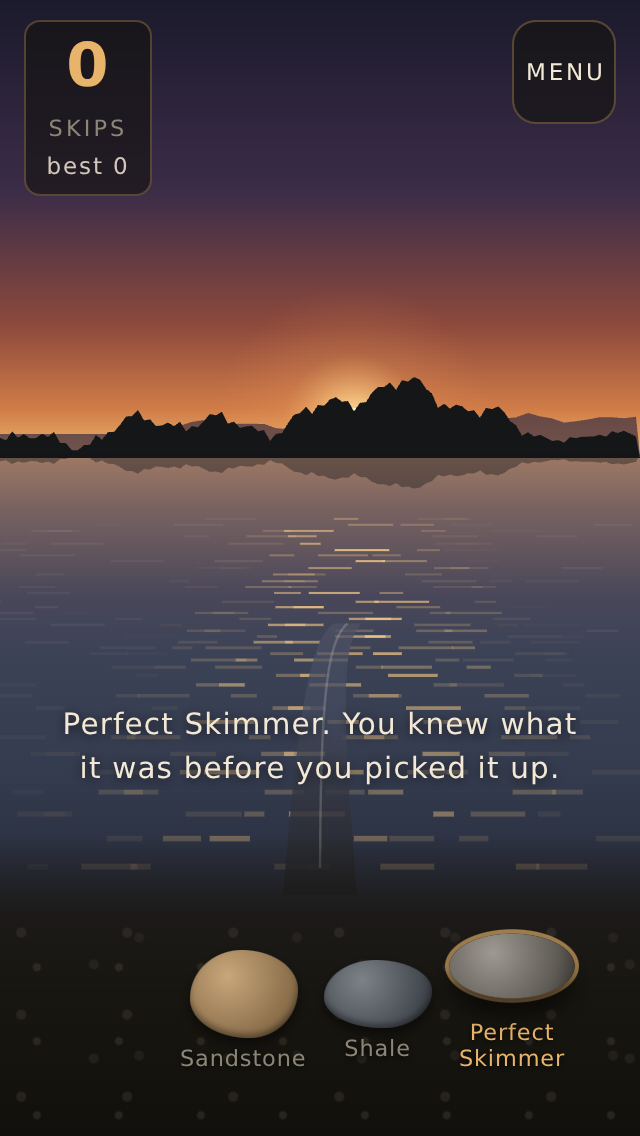
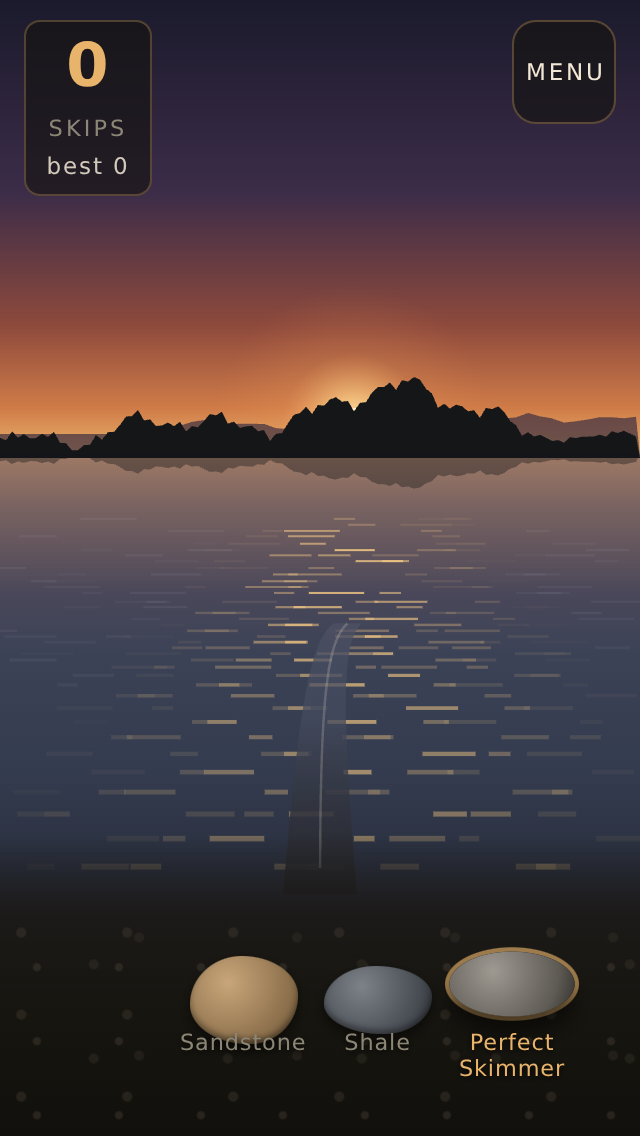
Gerplunk P2: records on the bank read at three widths, D36, two bank shots
Stone labels pinned to one baseline inside the button and narrowed to the slot
pitch (76 px on a 79 px pitch), the bank lifted 6 px, so a three line label
never clips at 667 and neighbours never collide. tools/shots.mjs takes a comma
list and shoots p2-bank (career 12) and p2-bank-late (career 1000), both
opened. DECISIONS D36 replaces D29.

Claude-Session: https://claude.ai/code/session_01CohA1CK6e5eCWUdrKWPpuM

diff --git a/satellites/gerplunk/index.html b/satellites/gerplunk/index.html
@@ -55,18 +55,18 @@ body{touch-action:none;user-select:none;-webkit-user-select:none}
     radial-gradient(circle at 45% 80%,#524a3f 0 1.5px,transparent 2.5px),
     radial-gradient(circle at 88% 25%,#3a342c 0 2px,transparent 3px);
   background-size:53px 41px,67px 47px,41px 37px,79px 59px}
-.stone{position:absolute;bottom:calc(30px + var(--safeB));width:64px;height:64px;border:0;background:transparent;
+.stone{position:absolute;bottom:calc(36px + var(--safeB));width:64px;height:64px;border:0;background:transparent;
   padding:0;color:var(--cream);font:inherit}
 .stone .rock{display:block;width:54px;height:44px;margin:0 auto;
   border-radius:48% 52% 45% 55% / 55% 45% 55% 45%;
   background:radial-gradient(circle at 35% 30%,#8C8676,#4B463F 70%,#2E2A25);
   box-shadow:0 3px 6px rgba(0,0,0,.5), inset 0 -2px 3px rgba(0,0,0,.35);
   transition:transform 220ms ease,box-shadow 220ms ease}
-.stone .nm{display:block;font-size:.7rem;letter-spacing:.04em;margin:5px 0 0 -16px;width:96px;line-height:1.15;
+.stone .nm{display:block;position:absolute;top:48px;left:-6px;font-size:.7rem;letter-spacing:.04em;margin:0;width:76px;line-height:1.15;
   color:var(--muted);text-shadow:0 1px 3px rgba(0,0,0,.8)}
 .stone.picked .rock{transform:translateY(-8px) scale(1.08);box-shadow:0 8px 10px rgba(0,0,0,.55),0 0 0 2px rgba(232,179,106,.65)}
 .stone.picked .nm{color:var(--gold)}
-.stone .rec{display:block;font-size:.7rem;letter-spacing:.06em;margin:1px 0 0 -16px;width:96px;color:var(--muted,#9a9788);opacity:.85}
+.stone .rec{display:block;position:absolute;top:76px;left:-6px;font-size:.7rem;letter-spacing:.06em;margin:0;width:76px;color:var(--muted,#9a9788);opacity:.85}
 .stone.picked .rec{color:var(--gold);opacity:1}
 .stone[data-id="sandstone"] .rock{background:radial-gradient(circle at 35% 30%,#C9A67A,#8A6E4A 70%,#4E3D28)}
 .stone[data-id="shale"] .rock{background:radial-gradient(circle at 35% 30%,#7C8288,#464B52 70%,#25282C);height:34px}

diff --git a/satellites/gerplunk/docs/DECISIONS.md b/satellites/gerplunk/docs/DECISIONS.md
@@ -317,3 +317,16 @@ modulated near 30 Hz, half second chirps), and the loon (660 to 880 Hz with
 vibrato over 1.2 s, every forty to ninety seconds), all at small gains so the
 ticks stay the score. Started on the first gesture, because a context cannot
 open without one.
+
+**D36. The pebble bed is seeded by the date and weighted by career, and it is
+pure.** `bedFor(dateStr, career)` lives in the SIM export so the sim can walk
+a year of it: three distinct stones drawn without replacement off the bed
+stream, commons at weight 1, the uncommon pair from 0.55 rising with career, a
+rare at weight 0 before `BED_RARE_CAREER` (50 career skips) and from 0.08
+rising to 0.40 by career 1550. Until `BED_GIFT_CAREER` (30) the skimmer is
+always on the bank, replacing slot three if the draw missed it, because the
+first flick a player ever makes should show the trill the game is named for;
+past it the skimmer is earned like any uncommon. This replaces D29. The gates
+run on a fresh save, so they always find the skimmer. Each stone on the bank
+carries the hand's own record under its name, and the stone's line says it
+once when picked; there is no stat readout, per the design.
